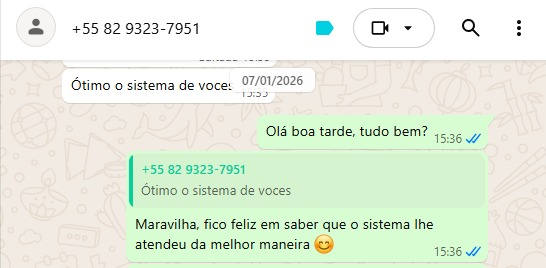
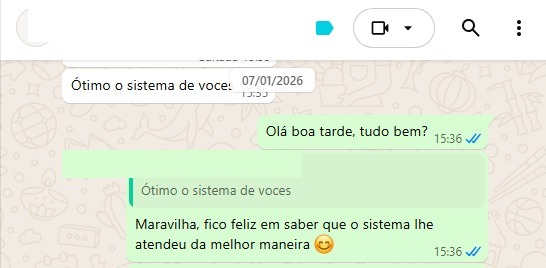
fix: mascarar numeros de telefone/CNPJ nos depoimentos e remover duplicatas
Numeros mascarados com barra solida em 6 imagens (02, 11, 12, 13, 16, 17)
Removidas duplicatas depoimento-14 e depoimento-15

Changed region(s): [[0.0934, 0.5373, 0.467, 0.6866], [0.1245, 0.0896, 0.3736, 0.1493], [0.0311, 0.0597, 0.0934, 0.1493]]

diff --git a/src/components/TestimonialsSection.tsx b/src/components/TestimonialsSection.tsx
@@ -18,8 +18,6 @@ const testimonials = [
   { src: "/images/testimonials/depoimento-08.jpeg", alt: "Cliente elogiando o atendimento top" },
   { src: "/images/testimonials/depoimento-13.jpeg", alt: "Cliente dizendo que o sistema é ótimo" },
   { src: "/images/testimonials/depoimento-09.jpeg", alt: "Cliente dizendo que a empresa é top" },
-  { src: "/images/testimonials/depoimento-14.jpeg", alt: "Depoimento de cliente sobre o sistema" },
-  { src: "/images/testimonials/depoimento-15.jpeg", alt: "Cliente satisfeito com o atendimento" },
   { src: "/images/testimonials/depoimento-16.jpeg", alt: "Depoimento positivo sobre a GermanTech" },
   { src: "/images/testimonials/depoimento-17.jpeg", alt: "Cliente recomendando o sistema" },
 ];
